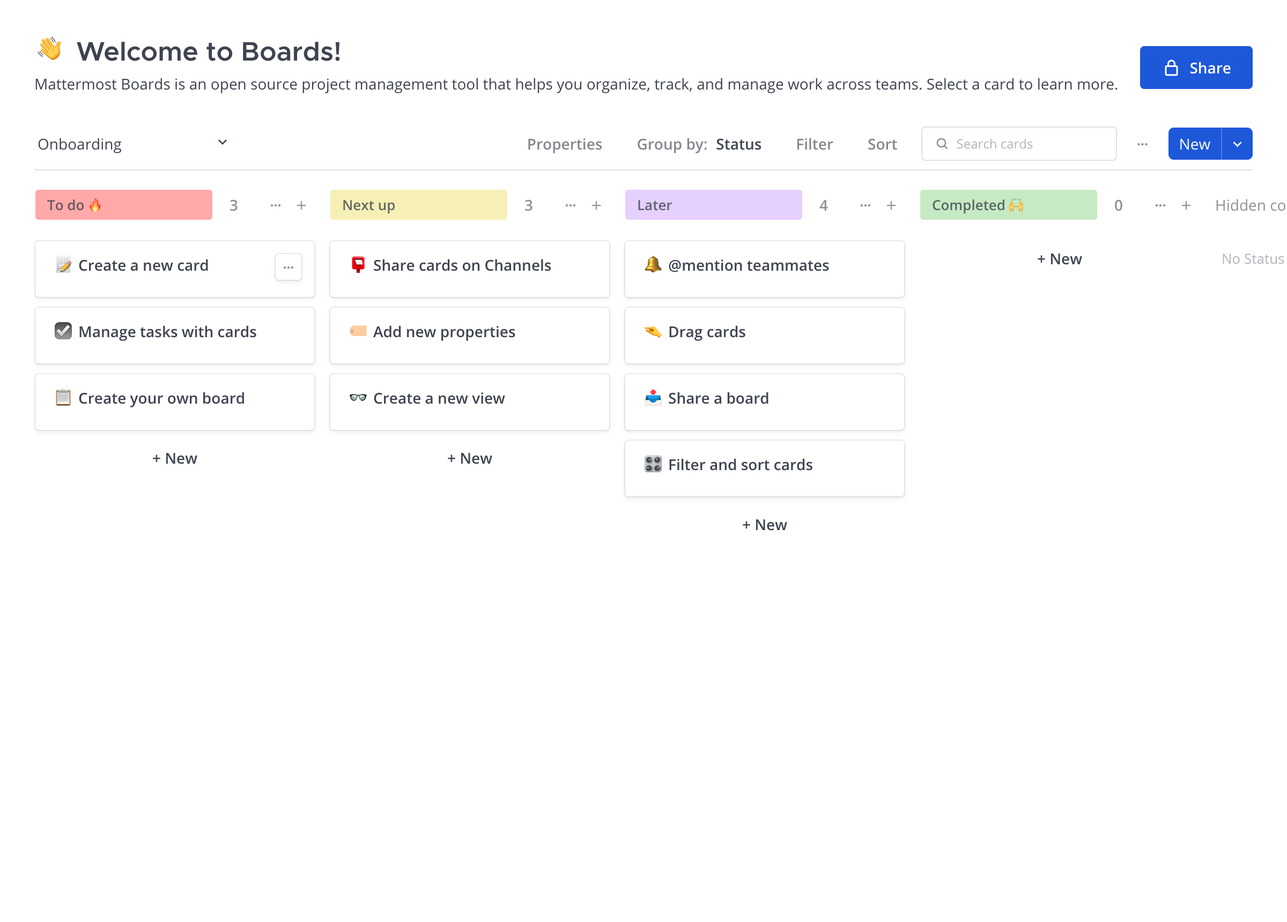
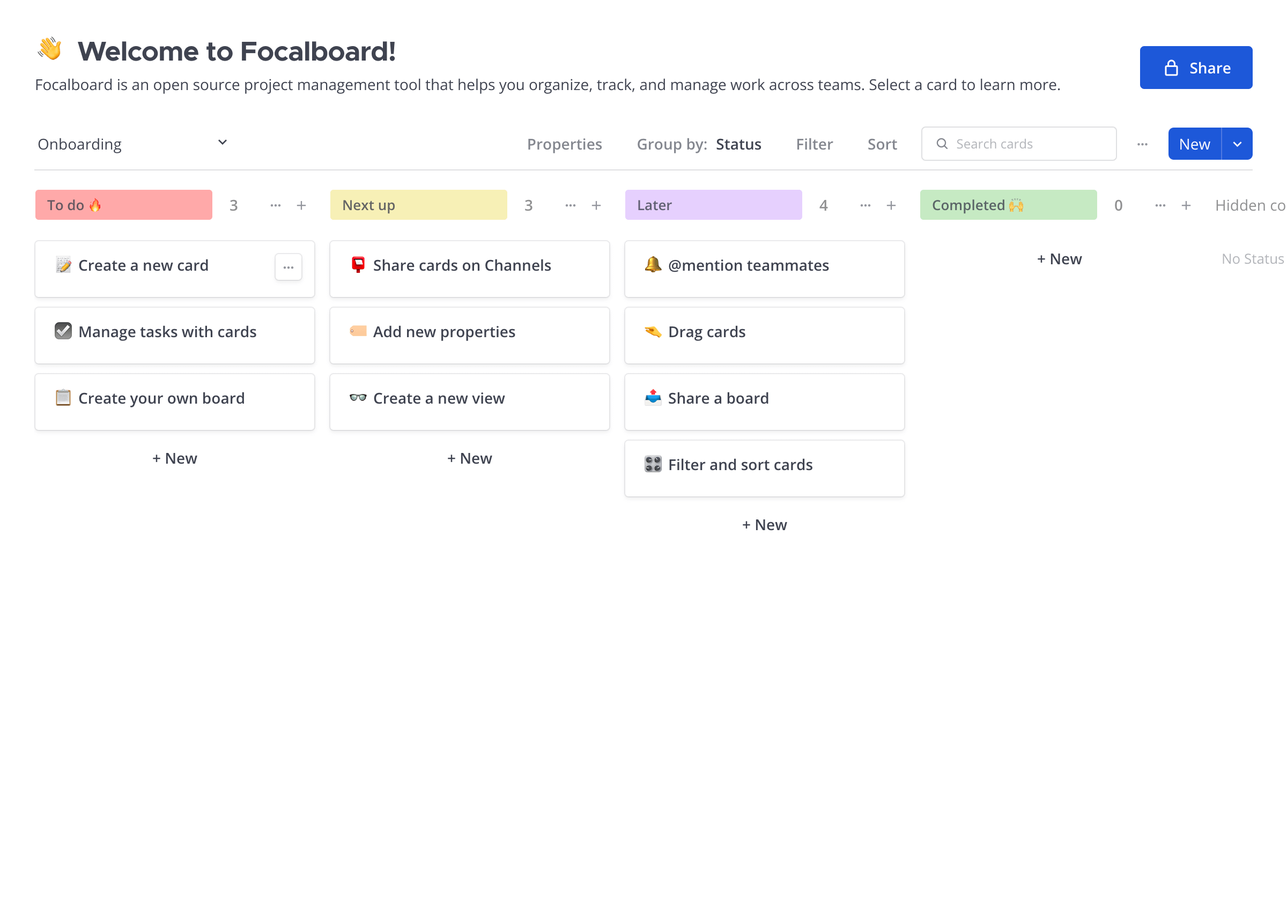
MM-54013- Removing some mattermost references (#4865)
* MM-54013- Removing some mattermost references

* Updating css

* Updating logo

* Removing clients banner from website

* Update footer.html

* Updating links and text

* Updating image

diff --git a/website/site/layouts/partials/footer.html b/website/site/layouts/partials/footer.html
@@ -1,184 +1,17 @@
-<footer aria-label="Mattermost Footer" class="site-footer">
+<footer class='py-5'>
     <div class="container">
-        <div id="footer-logo">
-            <img src="/img/footer-logo.svg" alt="Mattermost Footer Logo" />
+        <div class='d-flex justify-content-between'>
+            <a href="/"><img class='header__logo' src="/img/logo.svg?version=v2" alt="Logo" width="180"></a>
+            <div>
+                <a href="https://github.com/mattermost/focalboard#readme-ov-file" target='_blank'>
+                    Read me
+                </a>
+                |
+                <a href="https://github.com/mattermost/focalboard/blob/main/LICENSE.txt" target='_blank'>
+                    License
+                </a>
+            </div>
         </div>
-        <ul class="footer-menu__single">
-            <li><span class="footer-menu__heading">Company</span>
-                <ul id="menu-footer-company" class="menu">
-                    <li id="menu-item-25352"
-                        class="menu-item menu-item-type-post_type menu-item-object-page menu-item-25352"><a
-                            href="https://mattermost.com/about-us/">About Us</a></li>
-                    <li id="menu-item-25353"
-                        class="menu-item menu-item-type-post_type menu-item-object-page menu-item-25353"><a
-                            href="https://mattermost.com/newsroom/">Newsroom</a></li>
-                    <li id="menu-item-25354"
-                        class="menu-item menu-item-type-post_type menu-item-object-page menu-item-25354"><a
-                            href="https://mattermost.com/partners/">Partners</a></li>
-                    <li id="menu-item-25355"
-                        class="menu-item menu-item-type-post_type menu-item-object-page menu-item-25355"><a
-                            href="https://mattermost.com/events/">Events</a></li>
-                    <li id="menu-item-25356"
-                        class="menu-item menu-item-type-post_type menu-item-object-page menu-item-25356"><a
-                            href="https://mattermost.com/careers/">Careers</a></li>
-                    <li id="menu-item-28328"
-                        class="menu-item menu-item-type-post_type menu-item-object-page menu-item-28328"><a
-                            href="https://mattermost.com/contact-sales/">Contact Us</a></li>
-                </ul>
-            </li>
-        </ul>
-        <ul class="footer-menu__single">
-            <li><span class="footer-menu__heading">Platform</span>
-                <ul id="menu-footer-platform" class="menu">
-                    <li id="menu-item-27084"
-                        class="menu-item menu-item-type-post_type menu-item-object-page menu-item-27084"><a
-                            href="https://mattermost.com/platform-overview/">Platform Overview</a></li>
-                    <li id="menu-item-27085"
-                        class="menu-item menu-item-type-post_type menu-item-object-page menu-item-27085"><a
-                            href="https://mattermost.com/channels/">Channels</a></li>
-                    <li id="menu-item-27087"
-                        class="menu-item menu-item-type-post_type menu-item-object-page menu-item-27087"><a
-                            href="https://mattermost.com/playbooks/">Playbooks</a></li>
-                    <li id="menu-item-27086"
-                        class="menu-item menu-item-type-post_type menu-item-object-page menu-item-27086"><a
-                            href="https://mattermost.com/boards/">Boards</a></li>
-                    <li id="menu-item-27088"
-                        class="menu-item menu-item-type-post_type menu-item-object-page menu-item-27088"><a
-                            href="https://mattermost.com/integrations-overview/">Integrations</a></li>
-                    <li id="menu-item-25358"
-                        class="menu-item menu-item-type-post_type menu-item-object-page menu-item-25358"><a
-                            href="https://mattermost.com/security/">Security</a></li>
-                </ul>
-            </li>
-        </ul>
-        <ul class="footer-menu__single">
-            <li><span class="footer-menu__heading">Documentation</span>
-                <ul id="menu-footer-documentation" class="menu">
-                    <li id="menu-item-25359"
-                        class="menu-item menu-item-type-custom menu-item-object-custom menu-item-25359"><a
-                            href="https://docs.mattermost.com/guides/deployment.html">Deployment</a></li>
-                    <li id="menu-item-25360"
-                        class="menu-item menu-item-type-custom menu-item-object-custom menu-item-25360"><a
-                            href="https://docs.mattermost.com/guides/channels.html">Channels Guide</a></li>
-                    <li id="menu-item-30298"
-                        class="menu-item menu-item-type-custom menu-item-object-custom menu-item-30298"><a
-                            href="https://docs.mattermost.com/guides/playbooks.html">Playbooks Guide</a></li>
-                    <li id="menu-item-30299"
-                        class="menu-item menu-item-type-custom menu-item-object-custom menu-item-30299"><a
-                            href="https://docs.mattermost.com/guides/boards.html">Boards Guide</a></li>
-                    <li id="menu-item-25362"
-                        class="menu-item menu-item-type-custom menu-item-object-custom menu-item-25362"><a
-                            href="https://docs.mattermost.com/guides/administration.html">Admin</a></li>
-                    <li id="menu-item-25363"
-                        class="menu-item menu-item-type-custom menu-item-object-custom menu-item-25363"><a
-                            href="https://api.mattermost.com/">API Reference</a></li>
-                    <li id="menu-item-25364"
-                        class="menu-item menu-item-type-custom menu-item-object-custom menu-item-25364"><a
-                            href="https://docs.mattermost.com/">All Docs</a></li>
-                </ul>
-            </li>
-        </ul>
-        <ul class="footer-menu__single">
-            <li><span class="footer-menu__heading">Download</span>
-                <ul id="menu-footer-download" class="menu">
-                    <li id="menu-item-25365"
-                        class="menu-item menu-item-type-custom menu-item-object-custom menu-item-25365"><a
-                            href="https://mattermost.com/download/">Mobile &amp; Desktop Apps</a></li>
-                    <li id="menu-item-25366"
-                        class="menu-item menu-item-type-custom menu-item-object-custom menu-item-25366"><a
-                            href="https://mattermost.com/deploy/">Mattermost Server</a></li>
-                    <li id="menu-item-27089"
-                        class="menu-item menu-item-type-custom menu-item-object-custom menu-item-27089"><a
-                            href="https://mattermost.com/trial/">Enterprise Trial License</a></li>
-                    <li id="menu-item-27090"
-                        class="menu-item menu-item-type-custom menu-item-object-custom menu-item-27090"><a
-                            href="https://mattermost.com/sign-up-fb/?utm_source=focalboard&utm_campaign=focalboard">Cloud Trial</a></li>
-                </ul>
-            </li>
-        </ul>
-        <ul class="footer-menu__single">
-            <li><span class="footer-menu__heading">Support</span>
-                <ul id="menu-footer-support" class="menu">
-                    <li id="menu-item-25369"
-                        class="menu-item menu-item-type-custom menu-item-object-custom menu-item-25369"><a
-                            href="https://community.mattermost.com/login">Community Chat Server</a></li>
-                    <li id="menu-item-25370"
-                        class="menu-item menu-item-type-custom menu-item-object-custom menu-item-25370"><a
-                            href="https://forum.mattermost.org/">Forums</a></li>
-                    <li id="menu-item-25371"
-                        class="menu-item menu-item-type-custom menu-item-object-custom menu-item-25371"><a
-                            href="https://handbook.mattermost.com/contributors/contributors/ways-to-contribute#report-a-bug">Report
-                            an Issue</a></li>
-                    <li id="menu-item-25372"
-                        class="menu-item menu-item-type-custom menu-item-object-custom menu-item-25372"><a
-                            href="https://handbook.mattermost.com/contributors/contributors/ways-to-contribute#propose-new-features">Nominate
-                            a Feature</a></li>
-                    <li id="menu-item-28329"
-                        class="menu-item menu-item-type-custom menu-item-object-custom menu-item-28329"><a
-                            href="https://support.mattermost.com/hc/en-us">Help Center</a></li>
-                    <li id="menu-item-30880"
-                        class="menu-item menu-item-type-custom menu-item-object-custom menu-item-30880"><a
-                            href="https://mattermost.com/support/">Terms</a></li>
-                </ul>
-            </li>
-        </ul>
-        <div class="secondary-footer__copy">
-            <small class="disclaimer"><span class="mm-copyright" style="margin-right: 1rem;">© Mattermost, Inc.
-                    2023.</span> <span><a href="https://mattermost.com/terms-of-use/" title="Terms of Service">Terms
-                        of Use</a> <span style="margin: 0 0.5rem;">|</span> <a
-                        href="https://mattermost.com/privacy-policy/" title="Privacy Policy">Privacy Policy</a> <span
-                        style="margin: 0 0.5rem;">|</span> <a href="https://mattermost.com/privacy-policy/cookies/"
-                        title="Cookie Policy">Cookie Policy</a> </span></small>
-        </div>
-        <ul class="secondary-footer__social">
-            <li>
-                <a href="https://github.com/mattermost/" target="_blank" rel="noopener noreferrer">
-                    <svg width="35" height="35" viewBox="0 0 35 35" fill="none" xmlns="http://www.w3.org/2000/svg">
-                        <title>GitHub icon</title>
-                        <path
-                            d="M17.5 0C7.83232 0 0 7.83232 0 17.5C0 27.1677 7.83232 35 17.5 35C27.1677 35 35 27.1677 35 17.5C35 7.83232 27.1677 0 17.5 0ZM20.8293 27.2317C20.5945 27.061 20.3384 26.8262 20.3384 26.5061C20.3384 26.1433 20.3598 25.9299 20.3598 24.3293C20.3598 22.7287 20.1463 22.1524 19.3994 21.6829C21.7043 21.4482 23.1555 20.872 23.8384 19.3567L23.9024 19.2073C23.9665 19.0793 24.0091 18.9299 24.0091 18.9299L24.0945 18.6311C24.2439 18.0549 24.3293 17.372 24.3506 16.561C24.3506 14.3841 23.2835 13.5945 23.0915 13.2317C23.3902 11.5671 23.0488 10.8201 22.878 10.564C22.2805 10.3506 20.8079 11.0976 19.997 11.6311C18.6738 11.247 15.8994 11.2896 14.8537 11.7378C12.9329 10.372 11.9085 10.5854 11.9085 10.5854C11.9085 10.5854 11.247 11.7591 11.7378 13.4665C11.0976 14.2774 10.628 14.8323 10.628 16.3476C10.628 17.2012 10.7348 17.9482 10.9482 18.6098L11.0122 18.7591L11.2043 19.1646L11.2896 19.314C12.0152 20.6159 13.4024 21.4268 15.7713 21.6616C15.4299 21.9177 15.0244 22.3872 14.9817 22.9634C14.5549 23.2409 13.7012 23.3262 13.0396 23.1128C12.122 22.814 11.7591 21 10.372 21.2561C10.0732 21.3201 10.1372 21.5122 10.3933 21.6829C10.8201 21.9604 11.2043 22.3018 11.5244 23.0274C11.7591 23.5823 12.25 24.5854 13.8293 24.5854C14.4482 24.5854 14.8963 24.5213 14.8963 24.5213C14.8963 24.5213 14.9177 25.9299 14.9177 26.4848C14.9177 26.8476 14.6402 27.061 14.4055 27.2317C10.4787 25.8872 7.64024 22.1524 7.64024 17.7561C7.64024 12.2073 12.122 7.72561 17.6707 7.72561C23.2195 7.72561 27.7012 12.2073 27.7012 17.7561C27.6372 22.1311 24.7774 25.8872 20.8293 27.2317Z"
-                            fill="#FFFFFF"></path>
-                    </svg>
-                </a>
-            </li>
-            <li>
-                <a href="https://www.linkedin.com/company/mattermost/" target="_blank" rel="noopener noreferrer">
-                    <svg width="35" height="35" viewBox="0 0 35 35" fill="none" xmlns="http://www.w3.org/2000/svg">
-                        <g clip-path="url(#clip0_5:29)">
-                            <path
-                                d="M17.5 0C14.0388 0 10.6554 1.02635 7.77754 2.94927C4.89968 4.8722 2.65665 7.60532 1.33211 10.803C0.00758061 14.0007 -0.338975 17.5194 0.336266 20.9141C1.01151 24.3087 2.67822 27.4269 5.12564 29.8744C7.57306 32.3218 10.6913 33.9885 14.0859 34.6637C17.4806 35.339 20.9993 34.9924 24.197 33.6679C27.3947 32.3433 30.1278 30.1003 32.0507 27.2225C33.9737 24.3446 35 20.9612 35 17.5C35 12.8587 33.1563 8.40751 29.8744 5.12562C26.5925 1.84374 22.1413 0 17.5 0ZM13.6287 24.9033C13.6281 24.9734 13.6001 25.0403 13.5505 25.0898C13.501 25.1394 13.4341 25.1674 13.364 25.168H10.2887C10.2185 25.168 10.1512 25.1401 10.1016 25.0905C10.052 25.0408 10.0241 24.9735 10.0241 24.9033V15.0073C10.0247 14.9373 10.0527 14.8703 10.1022 14.8208C10.1517 14.7713 10.2187 14.7432 10.2887 14.7427H13.364C13.4341 14.7432 13.501 14.7713 13.5505 14.8208C13.6001 14.8703 13.6281 14.9373 13.6287 15.0073V24.9033ZM11.8317 13.9104C11.4263 13.9108 11.0299 13.7909 10.6927 13.566C10.3554 13.341 10.0925 13.021 9.93716 12.6466C9.78183 12.2721 9.74108 11.86 9.82006 11.4624C9.89904 11.0648 10.0942 10.6995 10.3809 10.4129C10.6675 10.1262 11.0328 9.93105 11.4304 9.85207C11.828 9.77308 12.2402 9.81383 12.6146 9.96916C12.9891 10.1245 13.309 10.3874 13.534 10.7247C13.7589 11.0619 13.8788 11.4583 13.8784 11.8637C13.8772 12.4062 13.6613 12.9261 13.2777 13.3097C12.8941 13.6932 12.3742 13.9092 11.8317 13.9104ZM25.1488 24.8948C25.1482 24.9648 25.1202 25.0318 25.0707 25.0813C25.0212 25.1308 24.9542 25.1589 24.8842 25.1594H21.811C21.7408 25.1594 21.6735 25.1316 21.6239 25.0819C21.5742 25.0323 21.5464 24.965 21.5464 24.8948V20.0994C21.5464 18.6759 21.4503 17.7412 20.1805 17.7412C18.9107 17.7412 18.6332 18.6119 18.6332 20.0161V24.9119C18.6327 24.9819 18.6046 25.0489 18.5551 25.0984C18.5056 25.1479 18.4386 25.176 18.3686 25.1765H15.2976C15.2626 25.1768 15.228 25.1702 15.1957 25.157C15.1633 25.1438 15.1339 25.1244 15.1091 25.0998C15.0843 25.0752 15.0646 25.0459 15.0511 25.0136C15.0377 24.9814 15.0308 24.9468 15.0308 24.9119V15.0073C15.0314 14.9369 15.0597 14.8696 15.1097 14.8201C15.1596 14.7705 15.2272 14.7427 15.2976 14.7427H18.2448C18.3152 14.7427 18.3827 14.7705 18.4327 14.8201C18.4827 14.8696 18.511 14.9369 18.5116 15.0073V15.528C19.1134 14.9689 20.1015 14.6253 21.2284 14.6253C24.7028 14.6253 25.1488 17.2183 25.1488 19.4741V24.8948Z"
-                                fill="white"></path>
-                        </g>
-                        <defs>
-                            <clipPath id="clip0_5:29">
-                                <rect width="35" height="35" fill="white"></rect>
-                            </clipPath>
-                        </defs>
-                    </svg>
-                </a>
-            </li>
-            <li>
-                <a href="https://www.facebook.com/Mattermost-2300985916642531/" target="_blank"
-                    rel="noopener noreferrer">
-                    <svg width="35" height="35" viewBox="0 0 35 35" fill="none" xmlns="http://www.w3.org/2000/svg">
-                        <title>Facebook icon</title>
-                        <path
-                            d="M17.5 0C7.83232 0 0 7.83232 0 17.5C0 27.1677 7.83232 35 17.5 35C27.1677 35 35 27.1677 35 17.5C35 7.83232 27.1677 0 17.5 0ZM21.7043 11.7378H20.0183C18.9085 11.7378 18.8445 12.1433 18.8445 12.9329V14.5549H21.4909L21.1707 17.4573H18.8445V26.0579H14.9604V17.4573H13.4451V14.5549H14.9604V12.6982C14.9604 10.2866 15.9634 8.83537 18.8232 8.83537H21.7043V11.7378Z"
-                            fill="#FFFFFF"></path>
-                    </svg>
-                </a>
-            </li>
-            <li>
-                <a href="https://twitter.com/mattermost" target="_blank" rel="noopener noreferrer">
-                    <svg width="35" height="35" viewBox="0 0 35 35" fill="none" xmlns="http://www.w3.org/2000/svg">
-                        <title>Twitter icon</title>
-                        <path
-                            d="M17.5 0C7.83232 0 0 7.83232 0 17.5C0 27.1677 7.83232 35 17.5 35C27.1677 35 35 27.1677 35 17.5C35 7.83232 27.1677 0 17.5 0ZM24.0091 14.1494C24.0091 14.2988 24.0091 14.4268 24.0091 14.5762C24.0091 18.9726 20.6799 24.0305 14.5549 24.0305C12.6768 24.0305 10.9268 23.4756 9.47561 22.5366C9.73171 22.5579 10.0091 22.5793 10.2652 22.5793C11.8232 22.5793 13.253 22.0457 14.3841 21.1494C12.9543 21.128 11.7378 20.1677 11.311 18.8445C11.503 18.8872 11.7165 18.9085 11.9299 18.9085C12.2287 18.9085 12.5274 18.8659 12.8049 18.8018C11.2896 18.503 10.1372 17.1585 10.1372 15.5366C10.1372 15.5152 10.1372 15.5152 10.1372 15.4939C10.5854 15.75 11.0976 15.8994 11.6311 15.8994C10.7348 15.3018 10.1585 14.2774 10.1585 13.1463C10.1585 12.5274 10.3293 11.9726 10.6067 11.4817C12.25 13.4878 14.6829 14.811 17.4573 14.9604C17.3933 14.7256 17.372 14.4695 17.372 14.2134C17.372 12.378 18.8659 10.8841 20.7012 10.8841C21.6616 10.8841 22.5152 11.2896 23.1341 11.9299C23.8811 11.7805 24.6067 11.503 25.247 11.1189C24.9909 11.8872 24.4787 12.5488 23.7957 12.9543C24.4573 12.8689 25.0976 12.6982 25.6951 12.4421C25.2256 13.0823 24.6707 13.6799 24.0091 14.1494Z"
-                            fill="#FFFFFF"></path>
-                    </svg>
-                </a>
-            </li>
-        </ul>
     </div>
 </footer>
 

diff --git a/website/site/layouts/partials/intro.html b/website/site/layouts/partials/intro.html
@@ -1,23 +1,10 @@
-<div class='mmtrust-banner'>
-    <div class="container-fluid">
-        <div class="title">MATTERMOST IS TRUSTED BY TEAMS AROUND THE WORLD</div>
-        <div class='mmtrust_banner__logos'>
-            <a target="_blank" href="https://www.qualcomm.com/home"><img src="img/teams/qualcom.svg" alt=""></a>
-            <a target="_blank" href="https://www.nasa.gov"><img src="img/teams/nasa.svg" alt=""></a>
-            <a target="_blank" href="https://www.aig.com"><img src="img/teams/aig.svg" alt=""></a>
-            <a target="_blank" href="https://www.nasdaq.com"><img src="img/teams/nasdaq.svg" alt=""></a>
-            <a target="_blank" href="https://www.samsung.com"><img src="img/teams/samsung.svg" alt=""></a>
-        </div>
-    </div>
-</div>
-
 <div class='section-half'>
     <div class="section-half__container">
         <div data-aos="fade-right">
             <img src="img/3d-icons/rocket.svg" alt="Rocket Icon">
             <h2>Accelerate productivity</h2>
             <p>
-                Centralize, plan, and track all your work in one place. Mattermost Boards helps your organization maintain a single source of truth, so your teams stay aligned to complete tasks, reach milestones, and achieve their goals.
+                Centralize, plan, and track all your work in one place. Focalboard helps your organization maintain a single source of truth, so your teams stay aligned to complete tasks, reach milestones, and achieve their goals.
             </p>
         </div>
         <div class="section-half__visual" data-aos="fade-left">
@@ -102,7 +89,7 @@
                 </div>
                 <div class="template-picker-item" x-bind:class="{ 'active': template == 6 }" @click='template = 6'>
                     <span class='template-picker-item__emoji'>👋</span>
-                    <span class='template-picker-item__title'>Welcome to Boards</span>
+                    <span class='template-picker-item__title'>Welcome to Focalboard</span>
                 </div>
             </div>
             <div class="template-picker__preview">
@@ -111,7 +98,7 @@
                 <img x-cloak x-transition.duration.500 x-show='template == 3' src="img/templates/company-goals.png" alt="Company Goals Template">
                 <img x-cloak x-transition.duration.500 x-show='template == 4' src="img/templates/roadmap.png" alt="Roadmap Template">
                 <img x-cloak x-transition.duration.500 x-show='template == 5' src="img/templates/meeting-agenda.png" alt="Meeting Agenda Template">
-                <img x-cloak x-transition.duration.500 x-show='template == 6' src="img/templates/welcome.png" alt="Welcome to Boards Template">
+                <img x-cloak x-transition.duration.500 x-show='template == 6' src="img/templates/welcome.png?version=v3" alt="Welcome to Boards Template">
             </div>
         </div>
     </div>
@@ -155,9 +142,9 @@
     <div class="section-half__container">
         <div data-aos="fade-left">
             <img src="img/3d-icons/development.svg" alt="Open source Icon">
-            <h2>Mattermost Boards is 100% open source</h2>
+            <h2>Focalboard is 100% open source</h2>
             <p>
-                Mattermost Boards is an open source alternative to tools like Asana, Trello, and Notion. Check out the <a target='_blank' href="https://github.com/mattermost/focalboard">source code on GitHub</a>, and contribute to the future of this project. Join the discussion on the <a href="https://community.mattermost.com/core/channels/focalboard" target="_blank">Mattermost community</a> to interact with other Mattermost and Focalboard contributors and users.
+                Focalboard is an open source alternative to tools like Asana, Trello, and Notion. Check out the <a target='_blank' href="https://github.com/mattermost/focalboard">source code on GitHub</a>, and contribute to the future of this project. Join the discussion on the <a href="https://community.mattermost.com/core/channels/focalboard" target="_blank">Mattermost community</a> to interact with other Mattermost and Focalboard contributors and users.
             </p>
         </div>
         <div class="section-half__visual" data-aos="fade-right">
@@ -166,7 +153,7 @@
     </div>
 </div>
 
-<div class='section-half roadmap-section'>
+{{/*  <div class='section-half roadmap-section'>
     <div class="section-half__container">
         <div data-aos="fade-left">
             <img src="img/3d-icons/firstbump.svg" alt="Fistbump Icon">
@@ -189,7 +176,7 @@
             x-show='roadmapItem == 3' src="img/roadmap/analytics.png" alt="Analytics and Reporting Image" width='800px'>
         </div>
     </div>
-</div>
+</div>  */}}
 
 <div class="help-section" data-aos="fade-up">
     <div class='section-half'>
@@ -197,9 +184,9 @@
             <div>
                 <h2>Need help?</h2>
                 <p>
-                    We have tons of documentation to help you make the most out of boards, head over to our documentation site to learn more about boards.
+                    We have tons of documentation to help you make the most out of focalboard, head over to our documentation site to learn more about focalboard.
                 </p>
-                <a href='https://docs.mattermost.com/guides/boards.html' target='_blank'>
+                <a href='https://github.com/mattermost/focalboard/#readme' target='_blank'>
                     <button class='btn btn-primary btn-xl'>
                         <span>Go to docs</span>
                         <img src="img/arrow-right.svg" alt="Arrow right">

diff --git a/website/site/layouts/partials/hero.html b/website/site/layouts/partials/hero.html
@@ -1,15 +1,14 @@
 <div class="homepage__intro homepage__section">
 	<div class="container-fluid">
 		<div class="homepage-intro__text" data-aos="fade-left">
-            <div class="focalboard-tag">Focalboard is now Mattermost Boards <img src="img/bullseye.svg" alt=""></div>
 			<h1>
 				Open source <br> project management for <span style='color: #ffbc1f'>technical teams</span>
 			</h1>
 			<p>
-                Keep everything and everyone on track, all in the Mattermost platform.
+                Keep everything and everyone on track.
 			</p>
 
-            <a href="https://mattermost.com/sign-up-fb/?utm_source=focalboard&utm_campaign=focalboard" target='_blank'><button class='btn btn-primary btn-xl'>Get started</button></a>
+            <a href="https://github.com/mattermost/focalboard" target='_blank'><button class='btn btn-primary btn-xl'>Get started</button></a>
 
             <div class='homepage-intro__github'><i class="fa fa-star"></i> Over 13k stars on <a target='_blank' href="https://github.com/mattermost/focalboard" class='mx-1 text-white'>GitHub</a> and counting!</div>
 		</div>

diff --git a/website/site/layouts/partials/nav.html b/website/site/layouts/partials/nav.html
@@ -4,7 +4,7 @@
 <header>
 {{ end }}
     <div class="container">
-        <a href="/"><img class='header__logo' src="/img/logo.svg?version=v2" alt="Logo" width="180"></a>
+        <a href="/"><img class='header__logo' src="/img/logo.svg?version=v3" alt="Logo" width="180"></a>
         <div class="header__menu-toggle">
             <div class="menu-bar"></div>
             <div class="menu-bar"></div>
@@ -15,7 +15,7 @@
                 <li><a class="external" rel="noopener" href="{{ .URL }}">{{ .Name }}</a></li>
             {{ end }}
             <li class='header__feedback'>
-                <a target='_blank' href='https://mattermost.com/sign-up-fb/?utm_source=focalboard&utm_campaign=focalboard'><button class='btn btn-primary'>Get started</button></a>
+                <a target='_blank' href='https://github.com/mattermost/focalboard'><button class='btn btn-primary'>Get started</button></a>
             </li>
         </ul>
     </div>

diff --git a/website/site/content/download/index.html b/website/site/content/download/index.html
@@ -12,7 +12,7 @@ weight: 0
         <div class="threecol__copy">
             <h4>For Teams</h4>
             <p>
-                Get started with Boards for free with <a href="https://mattermost.com/sign-up-fb/?utm_source=focalboard&utm_campaign=focalboard" target='_blank'>Mattermost Cloud</a> or install Mattermost as a <a href="https://mattermost.com/deploy/?utm_source=focalboard&utm_campaign=focalboard" target='_blank'>self-hosted server</a>.
+                Install the <a href="https://github.com/mattermost/focalboard/releases" target='_blank'>latest version</a> of the Focalboard plugin in your existing Mattermost server
             </p>
         </div>
     </div>

diff --git a/website/site/layouts/partials/head.html b/website/site/layouts/partials/head.html
@@ -24,7 +24,7 @@
 <link rel="stylesheet" href="{{ "css/bootstrap.min.css" | absURL }}">
 <link rel="stylesheet" href="{{ "css/tabs.css" | absURL }}">
 <link rel="stylesheet" href="{{ "css/bar.css" | absURL }}">
-<link rel="stylesheet" href="{{ "css/styles.css" | absURL }}?version=v8">
+<link rel="stylesheet" href="{{ "css/styles.css" | absURL }}?version=v9">
 <link rel="stylesheet" href="{{ "css/code.css" | absURL }}">
 <link rel="stylesheet" href="{{ "css/note.css" | absURL }}">
 

diff --git a/website/site/static/css/partials/footer.css b/website/site/static/css/partials/footer.css
@@ -1,5 +1,9 @@
 /*New Footer*/
 
+footer .container {
+    padding: 4rem 0;
+}
+
 footer #footer-logo {
     grid-column: 1 / -1;
     max-width: 18.8rem;

diff --git a/website/site/static/css/partials/homepage.css b/website/site/static/css/partials/homepage.css
@@ -33,7 +33,7 @@
 
 .homepage h1 {
     font-size: 56px;
-    margin: 24px 0;
+    margin: 0 0 24px;
 }
 
 .homepage h2 {

diff --git a/website/site/content/feedback/_index.md b/website/site/content/feedback/_index.md
@@ -8,8 +8,6 @@ weight: 1
 Please contact us via one of the following:
 * [File a GitHub issue](https://github.com/mattermost/focalboard/issues) for bugs or feature ideas
 * [Start a GitHub discussion](https://github.com/mattermost/focalboard/discussions)
-* [Mattermost community channel](https://community.mattermost.com/core/channels/focalboard)
-* [Anonymous feedback form](https://docs.google.com/forms/d/e/1FAIpQLSdTq7M69Pdlz71CwucaSEG0FCK1M_WRvIbZbPr2imfT2QvUCQ/viewform?usp=sf_link)
 
 Focalboard is an open source project that is in early access. Help shape its future by sharing what you'd like to see with the community.
 
